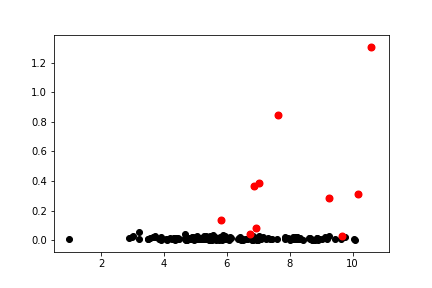
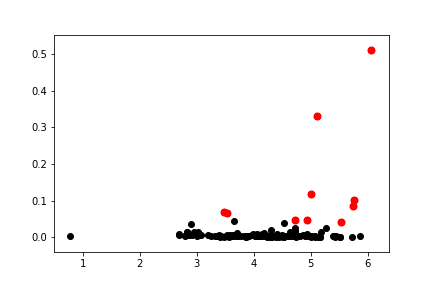
03-12 finish pattern predict

diff --git a/main/motif_discovery.py b/main/motif_discovery.py
@@ -6,6 +6,7 @@
 from preprocessing.up2down import up2down
 from sklearn.preprocessing import scale
 from measurement.dtw import dtw
+from measurement.mvm import minimal_variance_matching
 import numpy as np
 import heapq
 import matplotlib.pyplot as plt
@@ -15,8 +16,8 @@ import pandas as pd
 
 # ------- Config -------
 data_dir = '../data/'
-u2d_error = 0.02
-u2d_split_length = 8
+u2d_error = 0.015
+u2d_split_length = 15
 cutoff_present = 0.02
 cluster_num = 10
 train_present = 0.8
@@ -93,35 +94,131 @@ for path in os.listdir(data_dir):
             top_k = heapq.nlargest(cluster_num, mul_res)
 
         print(name)
-        # print(barrel_length)
-        # print(rho)
-        # print(delta)
-        # print(mul_res)
-        # print(topk)
-        # print('\n')
+# =============================================================================
+#         print(barrel_length)
+#         print(rho)
+#         print(delta)
+#         print(mul_res)
+#         print(topk)
+#         print('\n')
+# =============================================================================
 
         for i in range(barrel_length):
             if mul_res[i] in top_k:
                 c_rho.append(rho[i])
                 c_delta.append(delta[i])
-                center_set.append(barrel[i])
+                center_tmp = scale(barrel[i])
+                center_set.append(center_tmp)
 
-        plt.scatter(rho, delta, c="k")
-        plt.scatter(c_rho, c_delta, c="r", linewidths=2)
-        plt.savefig('exp_res/'+name+'.png')
-        plt.clf()
+# =============================================================================
+#         plt.scatter(rho, delta, c="k")
+#         plt.scatter(c_rho, c_delta, c="r", linewidths=2)
+#         plt.savefig('exp_res/'+name+'.png')
+#         plt.clf()
+# =============================================================================
 
-        center_avg_length = 0
-        for c in center_set:
-            center_avg_length += len(c)
-
-        center_avg_length = round(center_avg_length/cluster_num)
+# =============================================================================
+#         center_length = []
+#         for c in center_set:
+#             center_length.append(len(c))
+# 
+#         min_center_length = min(center_length)
+#         
+#         print(min_center_length)
+# =============================================================================
         
         # ------- Prediction -------
-        split_length = center_avg_length - prediction_step_length
+        split_length = u2d_split_length
+        
+        debug_cnt = 0
         for i in range(len(test_data) - split_length):
-            local_segment = test_data[i: i+split_length]
+            segment_tmp = test_data[i: i+split_length]
+            local_segment = segment_tmp[:u2d_split_length-prediction_step_length]
+            valid_segment = segment_tmp[u2d_split_length-prediction_step_length:]
+            
+            local_segment = scale(local_segment)
             # TODO: Match Scheme
+            mvm_distance_recorder = np.zeros(cluster_num, dtype=np.float)
+            mvm_correspondence_recorder = []
+            for i in range(cluster_num):
+                mvm_correspondence, mvm_distance = minimal_variance_matching(
+                        local_segment, center_set[i], skip_elements=2)
+                mvm_distance_recorder[i] = mvm_distance
+                mvm_correspondence_recorder.append(mvm_correspondence)
+            
+            mvm_target_index = mvm_distance_recorder.argmin()
+            mvm_target = center_set[mvm_target_index]
+            mvm_target_cor = mvm_correspondence_recorder[mvm_target_index]
+            
+            # TODO: prediction
+            mvm_length = len(mvm_target)
+            path_0, path_1 = list(zip(*mvm_target_cor))
+            tmp_length = mvm_length-1-path_1[-1]
+            
+            if tmp_length >= prediction_step_length:
+                res = mvm_target[path_1[-1]+1: path_1[-1]+1+prediction_step_length]
+                res = list(map(lambda x: x+(local_segment[-1]-mvm_target[path_1[-1]]), res))
+            elif tmp_length >= 1:
+                res_1 = mvm_target[path_1[-1]+1:]
+                res_2 = [mvm_target[-1]] * (prediction_step_length - tmp_length)
+                res = np.append(res_1, res_2)
+                res = list(map(lambda x: x+(local_segment[-1]-mvm_target[path_1[-1]]), res))
+            else:
+                res = [local_segment[-1]] * prediction_step_length
+            
+            # TODO: evaluation
+            print("res:", res)
+            print("valid:", valid_segment)
+            
+# =============================================================================
+#              # draw picture with res
+#             plt.figure(figsize=(10, 8))
+#             Y2 = list(map(lambda x:x+3, mvm_target))
+#             X2 = list(range(len(mvm_target))) 
+#             plt.plot(X2, Y2, '-x', c='k', label='target subseqence')
+#             path_0, path_1 = list(zip(*mvm_target_cor))
+#             X1 = list(map(lambda x:x+(path_1[-1]+path_1[0]-split_length)/2, path_0))
+#             plt.plot(X1, local_segment, '->', c='r', label='query subseqence')
+#             for i in range(len(local_segment)):
+#                 plt.plot([X1[i], path_1[i]], [local_segment[i], Y2[path_1[i]]], '--', c='k')
+#             
+#             X3 = [i+X1[-1] for i in range(prediction_step_length+1)]
+#             Y3 = np.append(local_segment[-1], res)
+#             Y4 = np.append(local_segment[-1], valid_segment)
+#             plt.plot(X3, Y3, '-o', c='b', label='prediction')
+#             plt.plot(X3, Y4, '-*', c='g', label='valid')
+#     
+#             plt.legend()
+#             plt.savefig('mvm_res/'+name+str(debug_cnt)+'.png')
+#             plt.clf()
+#             
+#             debug_cnt += 1
+#             if debug_cnt > 9:
+#                 break
+# =============================================================================
+            
+# =============================================================================
+#             # draw picture
+#             plt.figure(figsize=(10, 8))
+#             Y2 = list(map(lambda x:x+3, mvm_target))
+#             X2 = list(range(len(mvm_target))) 
+#             plt.plot(X2, Y2, '-x', c='k', label='target subseqence')
+#             path_0, path_1 = list(zip(*mvm_target_cor))
+#             X1 = list(map(lambda x:x+(path_1[-1]+path_1[0]-split_length)/2, path_0))
+#             plt.plot(X1, local_segment, '->', c='r', label='query subseqence')
+#             for i in range(len(local_segment)):
+#                 plt.plot([X1[i], path_1[i]], [local_segment[i], Y2[path_1[i]]], '--', c='k')
+#             plt.legend()
+#             plt.savefig('mvm_res/'+name+str(debug_cnt)+'.png')
+#             plt.clf()
+# =============================================================================
+            
+            
+            
+            
+            
+            
+            
             
 
 

diff --git a/measurement/mvm.py b/measurement/mvm.py
@@ -2,10 +2,6 @@
 
 import numpy as np
 import networkx as nx
-import matplotlib.pyplot as plt 
-
-t1 = [1, 2, 8, 6, 8]
-t2 = [3, 1, 2, 9, 3, 3, 5, 9, 6]
 
 def minimal_variance_matching(query, target, skip_elements=2):
     m = len(query)
@@ -16,7 +12,7 @@ def minimal_variance_matching(query, target, skip_elements=2):
         for j in range(n):
             r[i, j] = abs(query[i] - target[j])
     
-    print(r)
+    # print(r)
     
     # 建立初始图
     G = nx.DiGraph()
@@ -54,24 +50,6 @@ def minimal_variance_matching(query, target, skip_elements=2):
     
     distance=nx.dijkstra_path_length(G, source=-1, target=-2)
     
-    plt.figure(figsize=(12, 10))
-    nx.draw(G, with_labels=True, font_weight='bold')
-    plt.savefig("mvm_network_picture.png")
-    plt.clf()
-    
     return correspondence, distance
 
-
-correspondence, distance = minimal_variance_matching(t1, t2)
-
-# 绘制示意图
-t3 = list(map(lambda x:x+8, t2))
-X1 = list(range(len(t2))) 
-plt.plot(X1, t3, '-x', c='k')
-path_0, path_1 = list(zip(*correspondence))
-X2 = list(map(lambda x:x+(path_1[-1]+path_1[0]-len(t1))/2, path_0))
-plt.plot(X2, t1, '->', c='r')
-for i in range(len(t1)):
-    plt.plot([X2[i], path_1[i]], [t1[i], t3[path_1[i]]], '--', c='k')
-plt.show()
 

diff --git a/test/show_up2down.py b/test/show_up2down.py
@@ -1,14 +1,16 @@
 import pandas as pd
 from preprocessing.up2down import up2down
 import matplotlib.pyplot as plt
+from sklearn.preprocessing import scale
 
-prices = pd.read_csv("../data/^GSPC.csv") 
+prices = pd.read_csv("../data/AAPL.csv") 
 adj_close = prices.iloc[:, 3]
 index = prices.index
 
 begin = 0
 end = 100
 adj_close = adj_close[begin:end]
+adj_close = scale(adj_close)
 index = index[begin:end]
 
 pos = up2down(adj_close, 0.02)
